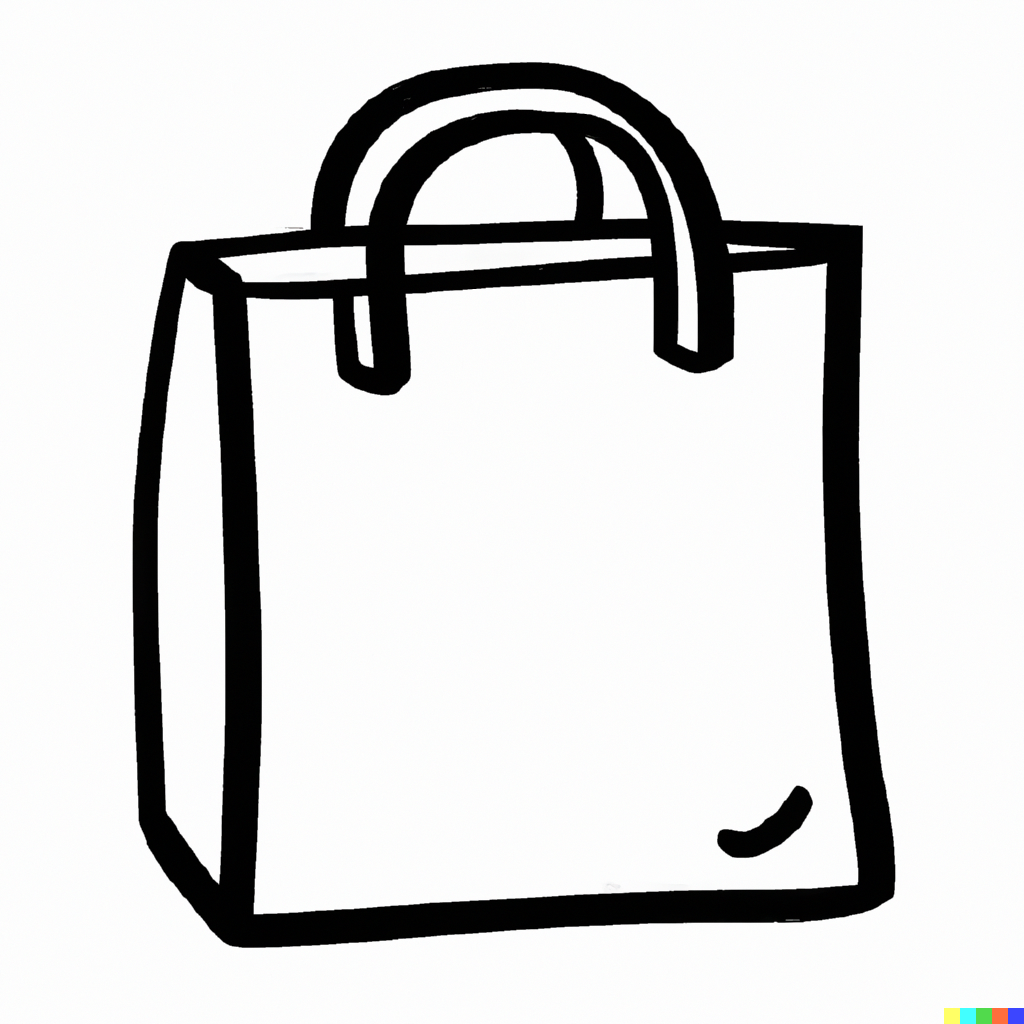
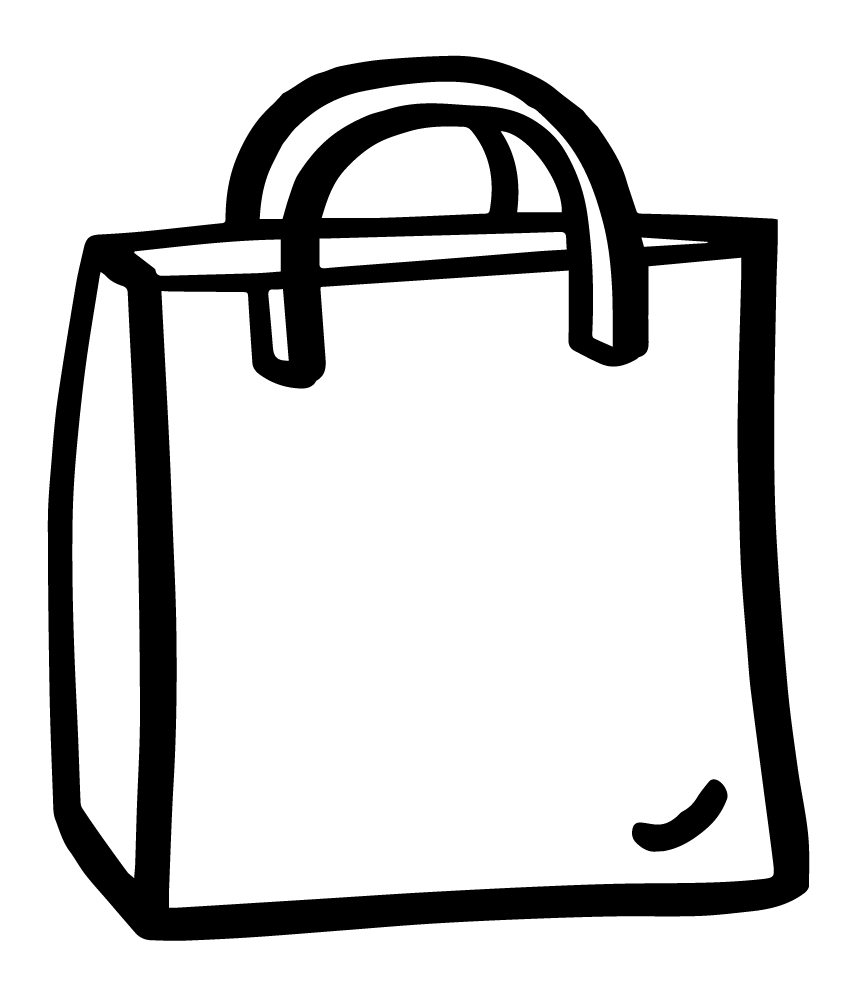
endret ting

Changed region(s): [[0.0304, 0.0311, 0.972, 0.9649], [0.9112, 0.9649, 1.0, 1.0]]

diff --git a/Site/css/style.css b/Site/css/style.css
@@ -13,7 +13,7 @@ body {
     background-color: lightblue;
 }
 
-/* Desktop Navigation bar */
+/* Navigation bar */
 
 .nav-container {
     background: white;
@@ -61,12 +61,14 @@ nav .desktop-nav li a:hover {
     width: 160px;
     background-repeat: no-repeat;
 }
+
 .link-shop {
     background: url('../img/shop.png');
     display: block;
     background-position: center;
-    height: 44px;
-    width: 15px;
+    height: 60px;
+    background-size: 44px;
+    width: 40px;
     background-repeat: no-repeat;
 }
 
@@ -87,87 +89,16 @@ nav .desktop-nav li a:hover {
 
 @media (max-width: 768px) {
     .nav-container .desktop-nav {
-        flex-direction: column;
-        position: fixed;
-        top: 0;
-        left: 0;
-        width: 100%;
-        height: 0vh;
-        background: white;
-        justify-content: start;
-        overflow: hidden;
-    }
-
-    .nav-container.active .desktop-nav {
-        height: 100vh;
-    }
-
-    .nav-container .desktop-nav li {
-        width: 100%;
-        padding: 0 32px;
-    }
-
-    .nav-container .desktop-nav li:first-child {
-        margin-top: 120px;
-    }
-
-    .nav-container .desktop-nav .link-shop,
-    .nav-container .desktop-nav .link-signature {
         display: none;
     }
-
-    .nav-container .desktop-nav li a {
-        padding: 16px 0;
-        display: inline-block;
-        border-bottom: 1px solid black;
-    }
-
-    /* Mobile Navigation bar */
-
-    nav .mobile-nav {
+    .mobile-nav {
         display: flex;
-        width: 100%;
-        justify-content: space-between;
-        list-style: none;
     }
+}
 
-    nav .menu-icon-container {
-        width: 20px;
-        height: 44px;
-        display: flex;
-        align-items: center;
-        cursor: pointer;
-    }
-
-    nav .menu-icon {
-        position: relative;
-        width: 100%;
-    }
-
-    nav .menu-icon .line-1,
-    nav .menu-icon .line-2 {
-        position: absolute;
-        height: 2px;
-        width: 100%;
-        border-radius: 50%;
-        background: black;
-    }
-
-    nav .menu-icon .line-1 {
-        top: -4px;
-    }
-
-    nav .menu-icon .line-2 {
-        top: 4px;
-    }
-
-    nav .menu-icon-container.active .menu-icon .line-1 {
-        top: 0;
-        transform: rotateZ(45deg);
-    }
-
-    nav .menu-icon-container.active .menu-icon .line-2 {
-        top: 0;
-        transform: rotateZ(-45deg);
-    }
+#fontTest {
+    font-family: 'Noto Sans Mono';
+    font-weight: 200;
+    font-size: larger;
+    color: black;
 }

diff --git a/Site/home.html b/Site/home.html
@@ -8,19 +8,15 @@
     <link rel="preconnect" href="https://fonts.googleapis.com"> 
     <link rel="preconnect" href="https://fonts.gstatic.com" crossorigin> 
     <link href="https://fonts.googleapis.com/css2?family=Caveat:wght@400;500;600;700&display=swap" rel="stylesheet">
-    <title>NordlandPhoto</title>
+    <link href="https://fonts.googleapis.com/css2?family=Noto+Sans+Mono:wght@100;200;300;400;500&display=swap" rel="stylesheet">
+    <title>NiclasNordlandPhoto</title>
 </head>
 <body>
-    <div class='nav-container active'>
+    <div class='nav-container'>
         <nav>
             <ul class='mobile-nav'>
                 <li>
-                    <div class='menu-icon-container'>
-                        <div class = 'menu-icon'>
-                             <span class="line-1"></span>
-                             <span class="line-2"></span>
-                        </div>
-                    </div>
+                    <a href='#' class='link-menu'></a>
                 </li>
                 <li>
                     <a href='#' class='link-signature'></a>
@@ -52,6 +48,9 @@
                     <a href='#'>Calendar</a>
                 </li>
                 <li>
+                    <a href='#'>About</a>
+                </li>
+                <li>
                     <a href='#' class='link-shop'></a>
                 </li>
             </ul>
@@ -61,5 +60,8 @@
 
     </div>
     <script src='script.js'></script>
+    <p id='fontTest'>
+        Dette er en test av fonten
+    </p>
 </body>
 </html>

diff --git a/Deliverables/P2_project-design/P2_design_5.html b/Deliverables/P2_project-design/P2_design_5.html
@@ -35,27 +35,27 @@
             The main purpose of the website will be to promote and showcase Niclas' 
             previous photography work, as well trying to implement a payment solution 
             for purchasing calendars/photos. The main audience for the website is 
-            professional customers interested in Niclas’ photos. It needs to be easy 
-            to contact Niclas, and we will 
+            professional customers interested in Niclas’ photos. 
             
         </p>
     </section>
     <br>
     <section>
         <h3>Navigation Structure</h3>
-        <p>Things to include:</p>
-            <ul>
-                <li>Burger menu</li>
-                <li>Categories</li>
-                <li>etc...</li>
-            </ul>
+        <p>noe:</p>
+            
     </section>
     <br>
     <section>
         <h3>Page Layout and Appearence</h3>
         <p>
-            noe mer
+            Things to include:
         </p>
+        <ul>
+            <li>Burger menu</li>
+            <li>Categories</li>
+            <li>etc...</li>
+        </ul>
     </section>
     <br>
     <section>

diff --git a/Deliverables/P1_project-requirements/P1_requirements_5.html b/Deliverables/P1_project-requirements/P1_requirements_5.html
@@ -91,9 +91,10 @@
             Final location
         </h3>
         <p>
-            We will host the webpage at Michael's <a href="folk.ntnu/michbrus/NiclasNordlundPhotography/Site/home.html ">folk.ntnu</a> 
-            page when the project is finished. Michael will also host the webpage on a custom server with a custom domain for the customer. 
-            There may be a few differences between the version on folk.ntnu and the custom server. For 
+            We will host the webpage at Michael's 
+            <a href="https://folk.ntnu.no/michbrus/NiclasNordlundPhotography/Site/home.html" target="_blank">folk.ntnu</a> 
+            page when the project is finished. Michael will also host the webpage on a custom server with a custom domain 
+            for the customer. There may be a few differences between the version on folk.ntnu and the custom server. For 
             instance if we get a working payment solution, we will disable it on folk.ntnu.
         </p>
     </section>

diff --git a/Deliverables/css/PX.css b/Deliverables/css/PX.css
@@ -25,11 +25,6 @@ section {
     padding: 20px;
 }
 
-a {
-color:white;
-text-decoration: none;
-}
-
 #cover {
     max-width: 750px;
     height: auto;
